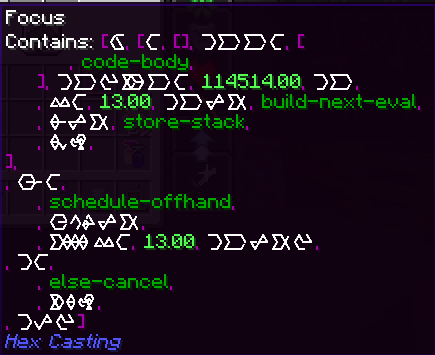
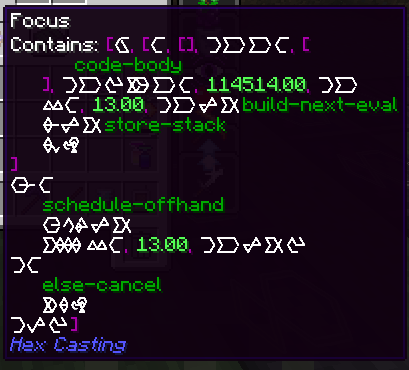
mixinExtras & disable comment commas

Changed region(s): [[0.0, 0.0, 1.0, 1.0]]

diff --git a/common/src/main/java/io/yukkuric/hexparse/actions/ActionCode2Focus.kt b/common/src/main/java/io/yukkuric/hexparse/actions/ActionCode2Focus.kt
@@ -14,7 +14,7 @@ object ActionCode2Focus : ConstMediaAction {
 
     override fun execute(args: List<Iota>, env: CastingEnvironment): List<Iota> {
         if (env !is StaffCastEnv) throw MishapDisallowedSpell()
-        MsgHandlers.SERVER.sendPacketToPlayer(env.caster, MsgPullClipboard(null, false));
+        MsgHandlers.SERVER.sendPacketToPlayer(env.caster, MsgPullClipboard(null, false))
         return listOf()
     }
 }

diff --git a/common/src/main/java/io/yukkuric/hexparse/mixin/iota/MixinListIotaDisplay.java b/common/src/main/java/io/yukkuric/hexparse/mixin/iota/MixinListIotaDisplay.java
@@ -1,0 +1,25 @@
+package io.yukkuric.hexparse.mixin.iota;
+
+import at.petrak.hexcasting.api.casting.iota.IotaType;
+import com.llamalad7.mixinextras.injector.wrapoperation.Operation;
+import com.llamalad7.mixinextras.injector.wrapoperation.WrapOperation;
+import com.llamalad7.mixinextras.sugar.Local;
+import io.yukkuric.hexparse.hooks.CommentIotaType;
+import net.minecraft.nbt.*;
+import net.minecraft.network.chat.MutableComponent;
+import org.spongepowered.asm.mixin.Mixin;
+import org.spongepowered.asm.mixin.injection.At;
+
+@Mixin(targets = "at.petrak.hexcasting.api.casting.iota.ListIota$1")
+public class MixinListIotaDisplay {
+    @WrapOperation(method = "display", at = @At(value = "INVOKE", target = "Lnet/minecraft/network/chat/MutableComponent;append(Ljava/lang/String;)Lnet/minecraft/network/chat/MutableComponent;"))
+    public MutableComponent cancelCommentCommas(MutableComponent instance, String body, Operation<MutableComponent> original,
+                                                Tag tag, @Local(ordinal = 0) int index) {
+        if (!body.startsWith(",") || !(tag instanceof ListTag list) || index >= list.size() - 1)
+            return original.call(instance, body);
+        if (IotaType.getTypeFromTag((CompoundTag) list.get(index)) == CommentIotaType.INSTANCE ||
+                IotaType.getTypeFromTag((CompoundTag) list.get(index + 1)) == CommentIotaType.INSTANCE)
+            return instance;
+        return original.call(instance, body);
+    }
+}

diff --git a/common/src/main/java/io/yukkuric/hexparse/mixin_interface/HexParseMixinPlugin.java b/common/src/main/java/io/yukkuric/hexparse/mixin_interface/HexParseMixinPlugin.java
@@ -1,0 +1,43 @@
+package io.yukkuric.hexparse.mixin_interface;
+
+import com.llamalad7.mixinextras.MixinExtrasBootstrap;
+import org.objectweb.asm.tree.ClassNode;
+import org.spongepowered.asm.mixin.extensibility.IMixinConfigPlugin;
+import org.spongepowered.asm.mixin.extensibility.IMixinInfo;
+
+import java.util.List;
+import java.util.Set;
+
+public class HexParseMixinPlugin implements IMixinConfigPlugin {
+    @Override
+    public void onLoad(String s) {
+        MixinExtrasBootstrap.init();
+    }
+
+    @Override
+    public String getRefMapperConfig() {
+        return null;
+    }
+
+    @Override
+    public boolean shouldApplyMixin(String s, String s1) {
+        return true;
+    }
+
+    @Override
+    public void acceptTargets(Set<String> set, Set<String> set1) {
+    }
+
+    @Override
+    public List<String> getMixins() {
+        return null;
+    }
+
+    @Override
+    public void preApply(String s, ClassNode classNode, String s1, IMixinInfo iMixinInfo) {
+    }
+
+    @Override
+    public void postApply(String s, ClassNode classNode, String s1, IMixinInfo iMixinInfo) {
+    }
+}

diff --git a/common/src/main/java/io/yukkuric/hexparse/mixin/patchouli/MixinPatternRenderer.java b/common/src/main/java/io/yukkuric/hexparse/mixin/patchouli/MixinPatternRenderer.java
@@ -24,7 +24,7 @@ public abstract class MixinPatternRenderer implements ICustomComponent {
         if (!Screen.hasShiftDown()) return;
         if (!(this instanceof IGetOpName getter)) return;
         var opName = getter.getOpName();
-        Component toRender = Component.literal(opName.toString())
+        Component toRender = Component.literal(opName.toString()).append(((LookupPatternComponent)(Object)this).opNameRaw)
                 .setStyle(context.getFont().withColor(ChatFormatting.BLACK));
         graphics.drawString(Minecraft.getInstance().font, toRender, 5, 10, -1, false);
     }
